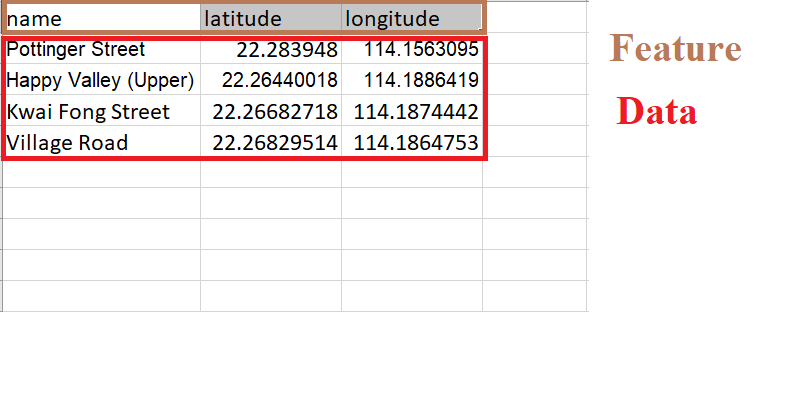
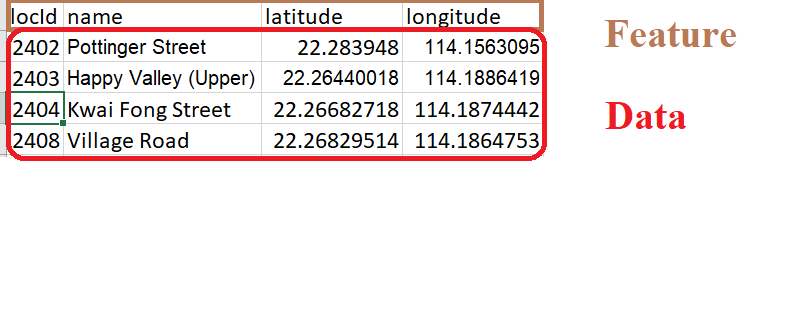
update the CSV function of js

diff --git a/admin.js b/admin.js
@@ -624,9 +624,9 @@ $(document).ready(function() {
         var locDataForm = '<div class="container" >'+
             '<h1>Create the Location Data</h1>' +
             '<h4>Please follow the structure below:</h4>'+
-            '<h4>Date Feature: | Location Name | Location Latitude | Location Longitude | </h4>'+
+            '<h4>Date Feature: |Location ID | Location Name | Location Latitude | Location Longitude | </h4>'+
             '<img src="CSV_format.PNG" alt="Format of CSV file" width="50%" height ="50%" >'+
-            '<h3><i>Reminder that the name should <strong>not</strong> include any "," </i></h3>'+
+            '<h6><i>Reminder that the name should <strong>not</strong> include any "," </i></h6>'+
             '<form class="form-inline">' +
                 '<div class="form-group">' +
                     '<label for="files">Please Upload a CSV file here: <br></label>' +
@@ -638,7 +638,7 @@ $(document).ready(function() {
             ' </form>' +
             '<div class="row">' +
                 '<div class="row" id="parsed_csv_list">'+
-                '</div > '  +
+                '</div > '+
             '</div >'+
            '</div>';
         $("title").html("Location Data Create");
@@ -648,24 +648,47 @@ $(document).ready(function() {
     var imported = document.createElement('script');
     document.head.appendChild(imported);
 
-
     function displayHTMLTable(results)
     {
         var table = "<table class='table'>";
         var data = results.data;
+        var Locid = 0;
+        var name = "name";
+        var lat = 0;
+        var long = 0;
 
-        for (i = 0; i < data.length; i++) {
+        for (i = 0; i < data.length; i++)
+        {
             table += "<tr>";
             var row = data[i];
             var cells = row.join(",").split(",");
 
-            for (j = 0; j < cells.length; j++) {
+            //Skip the feature line and empty data
+            if (cells[0] == "")
+            {
+                continue;
+            }
+            if (i > 0)
+            {
+                Locid = cells[0];
+                name = cells[1];
+                lat = cells[2];
+                long = cells[3];
+            }
+
+            for (j = 0; j <4; j++)
+            {
                 table += "<td>";
                 table += cells[j];
                 table += "</th>";
             }
+            console.log("locId:  " + Locid);
+            console.log("name: " + name);
+            console.log("lat: " + lat);
+            console.log("log: " + long);
             table += "</tr>";
         }
+       // console.log(data.length);
         table += "</table>";
         $("#parsed_csv_list").html(table);
     }

diff --git a/app.js b/app.js
@@ -517,6 +517,15 @@ app.delete("/admin/location", function(req,res){
 });
 
 
+/*app.post("/admin/csv", function (req, res) {
+
+    Location.findOne().sort([['locId', -1]]).exec(function (err, doc)
+    {	
+        var result = new Location(
+        { 
+
+
+});*/
 
                                                 // Admin CRUD actions for user data
 //create users
